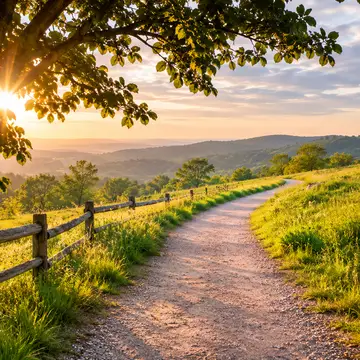
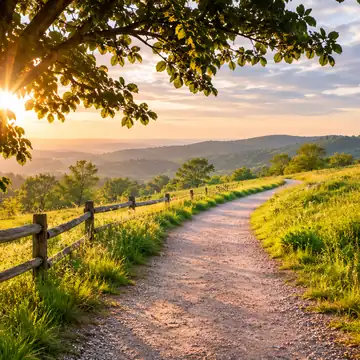
Home: lighter path photo on phones
Claude-Session: https://claude.ai/code/session_01Ybbn2phcFbiS1uj3SUniwD

diff --git a/index.html b/index.html
@@ -59,7 +59,7 @@
       </div>
     </div>
     <div class="hero-photo">
-      <img src="/assets/home-path-600.webp" srcset="/assets/home-path-360.webp 360w, /assets/home-path-600.webp 600w" sizes="(max-width: 900px) 300px, 400px" width="600" height="600" fetchpriority="high" decoding="async" alt="A gravel path curving through green hills at sunrise, with a wooden fence alongside.">
+      <picture><source media="(max-width: 900px)" srcset="/assets/home-path-360.webp"><source srcset="/assets/home-path-480.webp 480w, /assets/home-path-600.webp 600w" sizes="400px"><img src="/assets/home-path-600.webp" width="600" height="600" fetchpriority="high" decoding="async" alt="A gravel path curving through green hills at sunrise, with a wooden fence alongside."></picture>
     </div>
 </section>
 

diff --git a/assets/style.css b/assets/style.css
@@ -279,7 +279,7 @@ a.store-card:hover{transform:translateY(-2px);border-color:var(--sapphire);borde
 .hero-tag span{color:var(--gold)}
 .hero .wrap{align-items:center}
 .hero-photo img{width:100%;max-width:400px;margin-left:auto;border-radius:var(--r);border:3px solid rgba(212,165,116,.6)}
-@media(max-width:900px){.hero-photo img{max-width:300px;margin:0}}
+@media(max-width:900px){.hero-photo img{max-width:240px;margin:0}}
 .proof-strip{background:var(--paper);border-bottom:1px solid var(--line);padding:34px 0}
 .proof-items{list-style:none;margin:0;padding:0;display:grid;grid-template-columns:repeat(3,1fr);gap:28px}
 .proof-items li{font-size:1.02rem}
